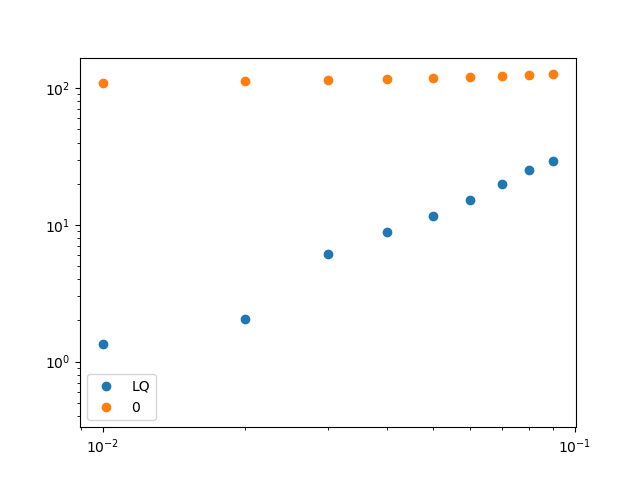
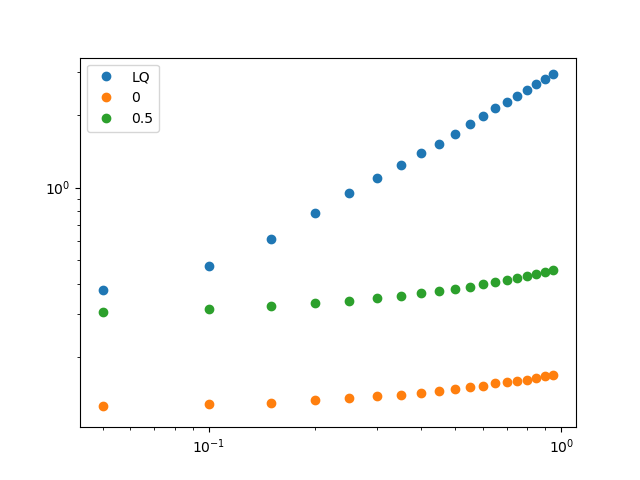
2D timing update

diff --git a/2DTiming.py b/2DTiming.py
@@ -8,169 +8,165 @@ import DriftDiffusionFunctionBank as functionBank
 from Errors import ErrorValsOneTime
 import time
 
+# startup parameters
 dimension = 2
-if dimension ==2:
-    radius = 2
-    h = 0.05
+radius = 2
+h = 0.05
+beta = 3
+bufferVals = [0,0.5]
+endTime = 20
+spacingLQ = 0.38
+spacingTR = 0.2
 
-# driftFunction = functionBank.zeroDrift
-# driftFunction = functionBank.erfDrift
+
+# SDE creation
 driftFunction = functionBank.oneDrift
-
-spatialDiff = False
 diffusionFunction = functionBank.ptSixDiffusion
+spatialDiff = False
 adaptive = True
-ApproxSolution =False
-
 sde = SDE(dimension, driftFunction, diffusionFunction, spatialDiff)
 
-ErrorsAM = []
-ErrorsEM = []
-beta = 3
-
-numPointsAM = []
-numPointsEM = []
-
-endTimes = [10]
-bufferVals = [0,0.5]
-timingVals = []
-
-plt.figure()
-for endTime in endTimes:
-
-    spacing = 0.38
-    parametersEM = Parameters(sde, beta, radius, spacing, spacing+0.1, h,useAdaptiveMesh =adaptive, timeDiscretizationType = "EM", integratorType="LQ")
-
-    startEM = time.time()
-    simulationEM = Simulation(sde, parametersEM, endTime)
-    startupEM = time.time() - startEM
-
-    timingEM = simulationEM.computeAllTimes(sde, simulationEM.pdf, parametersEM)
-    for i in range(len(timingEM)):
-        timingEM[i] += startupEM
-
-    timingEM.insert(0, startupEM)
-
-    meshApprox = simulationEM.meshTrajectory[-1]
-    pdfApprox = sde.exactSolution(simulationEM.meshTrajectory[-1], endTime)
-
-    LinfErrors, L2Errors, L1Errors, L2wErrors = ErrorValsOneTime(simulationEM.meshTrajectory[-1], simulationEM.pdfTrajectory[-1], meshApprox, pdfApprox, ApproxSolution)
-    ErrorsEM.append(np.copy(L2wErrors))
-    numPointsEM.append(np.copy(simulationEM.pdf.meshLength))
-    times = np.asarray(list(range(0,len(timingEM))))*h
-    plt.loglog(times, np.asarray(timingEM),'o', label= "LQ")
+# SDE parameter creation
+parametersLQ = Parameters(sde, beta, radius, spacingLQ, spacingLQ+0.1, h,useAdaptiveMesh =adaptive, timeDiscretizationType = "EM", integratorType="LQ")
 
 
+# Data Storage
+ErrorsLQ = []
+ErrorsTR = []
+numPointsLQ = []
+numPointsTR = []
+stepByStepTimingArrayStorageLQ = []
+stepByStepTimingArrayStorageTR = []
 
-    xmin = min(np.min(simulationEM.meshTrajectory[-1][:,0]),np.min(simulationEM.meshTrajectory[0][:,0]))
-    xmax = max(np.max(simulationEM.meshTrajectory[-1][:,0]),np.max(simulationEM.meshTrajectory[0][:,0]))
-    ymin = min(np.min(simulationEM.meshTrajectory[-1][:,1]),np.min(simulationEM.meshTrajectory[0][:,1]))
-    ymax = max(np.max(simulationEM.meshTrajectory[-1][:,1]),np.max(simulationEM.meshTrajectory[0][:,1]))
+def get2DTrapezoidalMeshBasedOnLejaQuadratureSolution(simulationLQ, bufferVal = 0):
+    xmin = min(np.min(simulationLQ.meshTrajectory[-1][:,0]),np.min(simulationLQ.meshTrajectory[0][:,0]))
+    xmax = max(np.max(simulationLQ.meshTrajectory[-1][:,0]),np.max(simulationLQ.meshTrajectory[0][:,0]))
+    ymin = min(np.min(simulationLQ.meshTrajectory[-1][:,1]),np.min(simulationLQ.meshTrajectory[0][:,1]))
+    ymax = max(np.max(simulationLQ.meshTrajectory[-1][:,1]),np.max(simulationLQ.meshTrajectory[0][:,1]))
 
-    for bufferVal in bufferVals:
-        spacing = 0.2
-        bufferX =bufferVal*(xmax-xmin)/2
-        bufferY = bufferVal*(ymax-ymin)/2
-        xstart = np.floor(xmin) - bufferX
-        xs = []
-        xs.append(xstart)
-        while xstart< xmax + bufferX:
-            xs.append(xstart+spacing)
-            xstart += spacing
+    bufferX =bufferVal*(xmax-xmin)/2
+    bufferY = bufferVal*(ymax-ymin)/2
+    xstart = np.floor(xmin) - bufferX
+    xs = []
+    xs.append(xstart)
+    while xstart< xmax + bufferX:
+        xs.append(xstart+spacingTR)
+        xstart += spacingTR
 
-        ystart = np.floor(ymin) - bufferY
-        ys = []
-        ys.append(ystart)
+    ystart = np.floor(ymin) - bufferY
+    ys = []
+    ys.append(ystart)
 
-        while ystart< ymax+ bufferY:
-            ys.append(ystart+spacing)
-            ystart += spacing
+    while ystart< ymax+ bufferY:
+        ys.append(ystart+spacingTR)
+        ystart += spacingTR
 
-        mesh = []
-        for i in xs:
-            for j in ys:
-                mesh.append([i,j])
-        mesh = np.asarray(mesh)
-        parametersAM = Parameters(sde, beta, radius, spacing, spacing, h,useAdaptiveMesh =False, timeDiscretizationType = "EM", integratorType="TR", OverideMesh = mesh)
+    mesh = []
+    for i in xs:
+        for j in ys:
+            mesh.append([i,j])
+    mesh = np.asarray(mesh)
 
-        startAM = time.time()
-        print(time.time())
-        simulationAM = Simulation(sde, parametersAM, endTime)
-        print(time.time())
-
-        startupAM = time.time()-startAM
-        timingAM = simulationAM.computeAllTimes(sde, simulationAM.pdf, parametersAM)
-        for i in range(len(timingAM)):
-            timingAM[i] += startupAM
-        timingAM.insert(0, startupAM)
-        plt.loglog(times, np.asarray(timingAM),'o', label= bufferVal)
+    return mesh
 
 
+startTimeLQ = time.time()
+simulationLQ = Simulation(sde, parametersLQ, endTime)
+TransitionMatrixCreationTimeLQ = time.time() - startTimeLQ
 
-        if not ApproxSolution:
-            meshApprox = simulationAM.meshTrajectory[-1]
-            pdfApprox = sde.exactSolution(simulationAM.meshTrajectory[-1], endTime)
-        LinfErrors, L2Errors, L1Errors, L2wErrors = ErrorValsOneTime(simulationAM.meshTrajectory[-1], simulationAM.pdfTrajectory[-1], meshApprox, pdfApprox, ApproxSolution)
-        ErrorsAM.append(np.copy(L2wErrors))
-        numPointsAM.append(np.copy(simulationAM.pdf.meshLength))
+stepByStepTimingLQ = simulationLQ.computeAllTimes(sde, simulationLQ.pdf, parametersLQ)
+for i in range(len(stepByStepTimingLQ)):
+    stepByStepTimingLQ[i] += TransitionMatrixCreationTimeLQ
+
+stepByStepTimingLQ.insert(0, TransitionMatrixCreationTimeLQ)
+
+meshTrueSolnLQ = simulationLQ.meshTrajectory[-1]
+pdfTrueSolnLQ = sde.exactSolution(simulationLQ.meshTrajectory[-1], endTime)
+
+LinfErrors, L2Errors, L1Errors, L2wErrors = ErrorValsOneTime(simulationLQ.meshTrajectory[-1], simulationLQ.pdfTrajectory[-1], meshTrueSolnLQ, pdfTrueSolnLQ, interpolate=False)
+ErrorsLQ.append(np.copy(L2wErrors))
+stepByStepTimingArrayStorageLQ.append(np.copy(np.asarray(stepByStepTimingLQ)))
+numPointsLQ.append(np.copy(simulationLQ.pdf.meshLength))
+times = np.asarray(list(range(1,len(stepByStepTimingLQ)+1)))*h
+
+for bufferVal in bufferVals:
+    meshTR = get2DTrapezoidalMeshBasedOnLejaQuadratureSolution(simulationLQ, bufferVal)
+    parametersTR = Parameters(sde, beta, radius, spacingTR, spacingTR, h,useAdaptiveMesh =False, timeDiscretizationType = "EM", integratorType="TR", OverideMesh = meshTR)
+
+    startTimeTR = time.time()
+    simulationTR = Simulation(sde, parametersTR, endTime)
+    TransitionMatrixCreationTimeTR = time.time()-startTimeTR
+
+    stepByStepTimingTR = simulationTR.computeAllTimes(sde, simulationTR.pdf, parametersTR)
+    for i in range(len(stepByStepTimingTR)):
+        stepByStepTimingTR[i] += TransitionMatrixCreationTimeTR
+    stepByStepTimingTR.insert(0, TransitionMatrixCreationTimeTR)
+
+    meshTrueSolnTR = simulationTR.meshTrajectory[-1]
+    pdfTrueSolnTR = sde.exactSolution(simulationTR.meshTrajectory[-1], endTime)
+    LinfErrors, L2Errors, L1Errors, L2wErrors = ErrorValsOneTime(simulationTR.meshTrajectory[-1], simulationTR.pdfTrajectory[-1], meshTrueSolnTR, pdfTrueSolnTR, interpolate=False)
+    ErrorsTR.append(np.copy(L2wErrors))
+    numPointsTR.append(np.copy(simulationTR.pdf.meshLength))
+    stepByStepTimingArrayStorageTR.append(np.copy(np.asarray(stepByStepTimingTR)))
+
+
+plt.plot()
+plt.loglog(times, stepByStepTimingArrayStorageLQ[0],'o', label= "LQ")
+plt.loglog(times, stepByStepTimingArrayStorageTR[1],'o', label= "TR, 0.5% padding")
+plt.loglog(times, stepByStepTimingArrayStorageTR[0],'o', label= "TR, 0% padding")
 plt.legend()
+plt.xlabel("Time")
+plt.ylabel("Total Time")
 
-# plt.figure()
-# plt.loglog(np.asarray(times), np.asarray(timingEM),'o', label= "LQ")
-# plt.loglog(np.asarray(times), np.asarray(timingAM),'.', label="TR")
-# plt.xlabel("Time")
-# plt.ylabel("Total Time")
+import sys
+original_stdout = sys.stdout # Save a reference to the original standard output
+with open('outputInformation.txt', 'w') as f:
+    sys.stdout = f # Change the standard output to the file we created.
+    print("Erorrs LQ", ErrorsLQ)
+    print("Errors TR", ErrorsTR)
+    print("# points LQ", numPointsLQ)
+    print("# points TR", numPointsTR)
+    print("Step By Step times LQ", stepByStepTimingArrayStorageLQ)
+    print("Step By Step times TR", stepByStepTimingArrayStorageTR)
+    print("times", times)
+    sys.stdout = original_stdout # Reset the standard output to its original value
 
-# plt.figure()
-# plt.plot(np.asarray(times), np.asarray(timingEM),'o', label= "LQ")
-# plt.plot(np.asarray(times), np.asarray(timingAM),'.', label="TR")
-# plt.xlabel("Time")
-# plt.ylabel("Total Time")
+# import matplotlib.pyplot as plt
+# import matplotlib.animation as animation
 
+# simulation = simulationTR
+# if dimension ==1:
+#     def update_graph(num):
+#         graph.set_data(simulation.meshTrajectory[num], simulation.pdfTrajectory[num])
+#         return title, graph
 
-plt.legend()
-plt.savefig('timingPlot.png')
+#     fig = plt.figure()
+#     ax = fig.add_subplot(111)
+#     title = ax.set_title('2D Test')
 
+#     graph, = ax.plot(simulation.meshTrajectory[-1], simulation.pdfTrajectory[-1], linestyle="", marker=".")
+#     ax.set_xlim(-40, 40)
+#     ax.set_ylim(0, np.max(simulation.pdfTrajectory[0]))
+#     ani = animation.FuncAnimation(fig, update_graph, frames=len(simulation.pdfTrajectory), interval=50, blit=False)
+#     plt.show()
 
-import matplotlib.pyplot as plt
-import matplotlib.animation as animation
+# if dimension ==2:
+#     Meshes = simulation.meshTrajectory
+#     PdfTraj = simulation.pdfTrajectory
+#     def update_graph(num):
+#         graph.set_data (Meshes[num][:,0], Meshes[num][:,1])
+#         graph.set_3d_properties(PdfTraj[num])
+#         title.set_text('3D Test, time={}'.format(num))
+#         return title, graph
 
-simulation = simulationAM
-if dimension ==1:
-    def update_graph(num):
-        graph.set_data(simulation.meshTrajectory[num], simulation.pdfTrajectory[num])
-        return title, graph
+#     fig = plt.figure()
+#     ax = fig.add_subplot(111, projection='3d')
+#     title = ax.set_title('3D Test')
 
-    fig = plt.figure()
-    ax = fig.add_subplot(111)
-    title = ax.set_title('2D Test')
-
-    graph, = ax.plot(simulation.meshTrajectory[-1], simulation.pdfTrajectory[-1], linestyle="", marker=".")
-    ax.set_xlim(-40, 40)
-    ax.set_ylim(0, np.max(simulation.pdfTrajectory[0]))
-    ani = animation.FuncAnimation(fig, update_graph, frames=len(simulation.pdfTrajectory), interval=50, blit=False)
-    plt.show()
-
-if dimension ==2:
-    Meshes = simulation.meshTrajectory
-    PdfTraj = simulation.pdfTrajectory
-    def update_graph(num):
-        graph.set_data (Meshes[num][:,0], Meshes[num][:,1])
-        graph.set_3d_properties(PdfTraj[num])
-        title.set_text('3D Test, time={}'.format(num))
-        return title, graph
-
-    fig = plt.figure()
-    ax = fig.add_subplot(111, projection='3d')
-    title = ax.set_title('3D Test')
-
-    graph, = ax.plot(Meshes[-1][:,0], Meshes[-1][:,1], PdfTraj[-1], linestyle="", marker=".")
-    # ax.set_zlim(0, 1.5)
-    ani = animation.FuncAnimation(fig, update_graph, frames=len(PdfTraj), interval=10, blit=False)
-    plt.show()
-
-
-
+#     graph, = ax.plot(Meshes[-1][:,0], Meshes[-1][:,1], PdfTraj[-1], linestyle="", marker=".")
+#     # ax.set_zlim(0, 1.5)
+#     ani = animation.FuncAnimation(fig, update_graph, frames=len(PdfTraj), interval=10, blit=False)
+#     plt.show()
 
 
 
